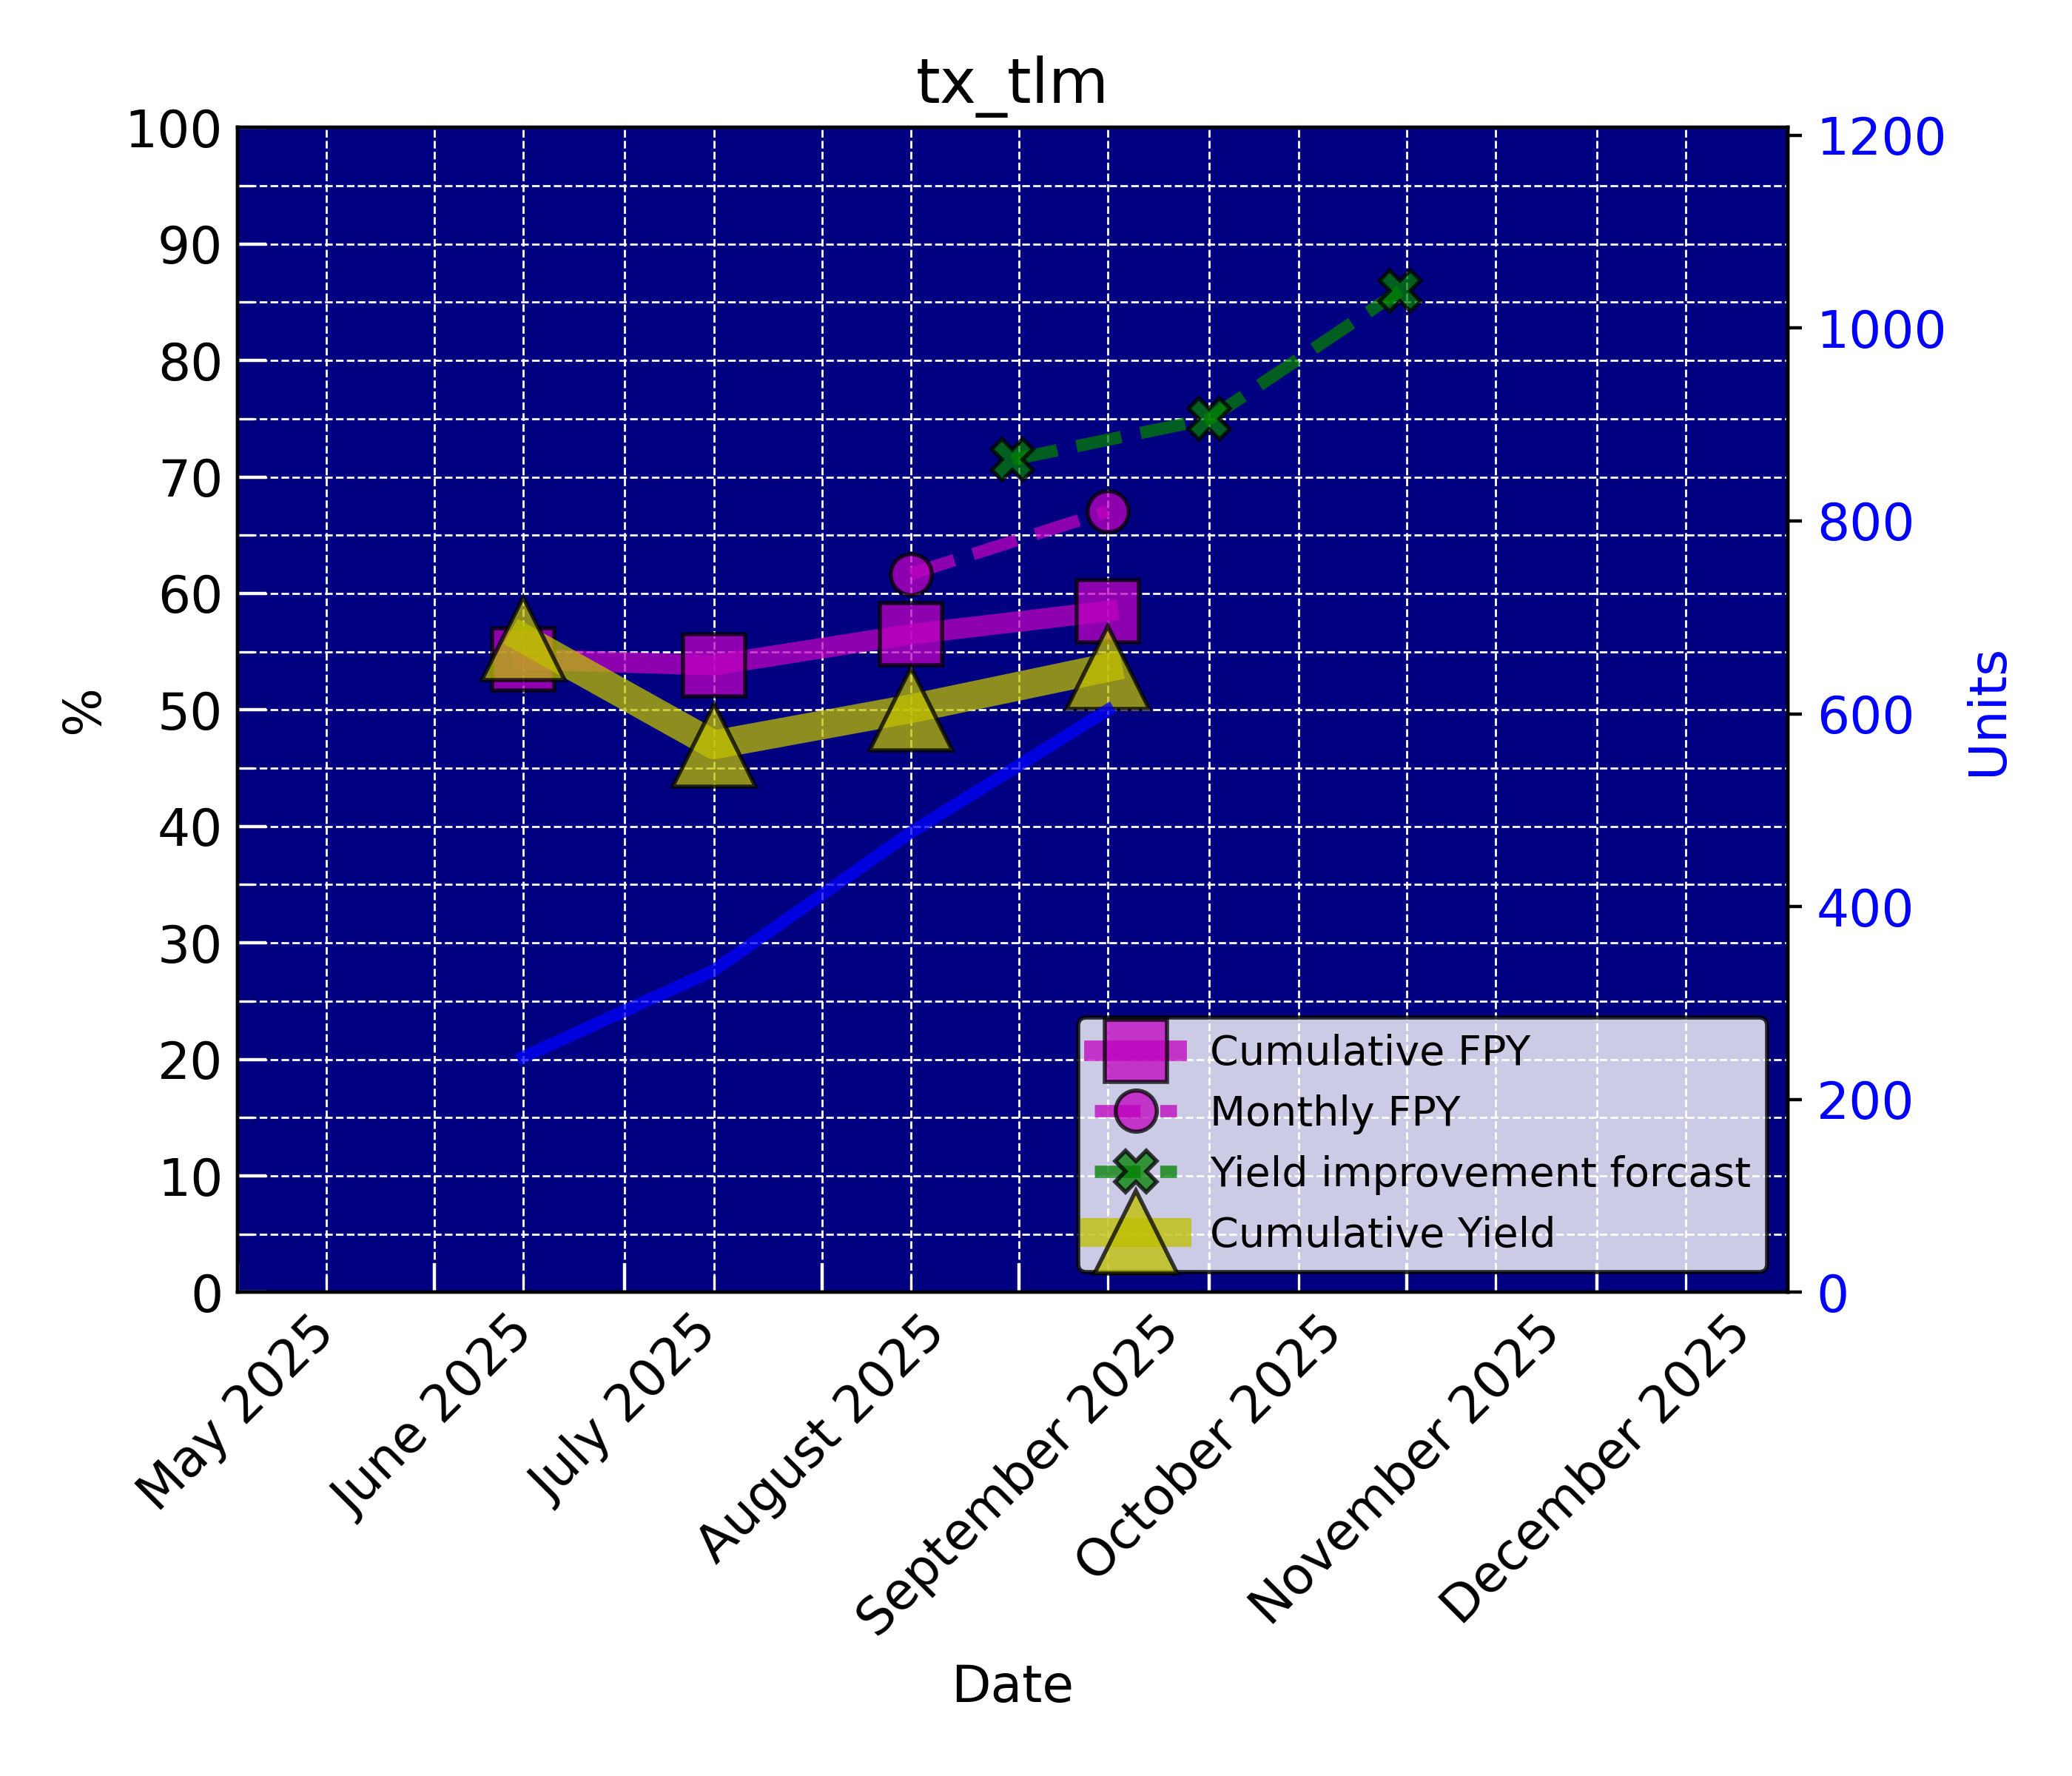
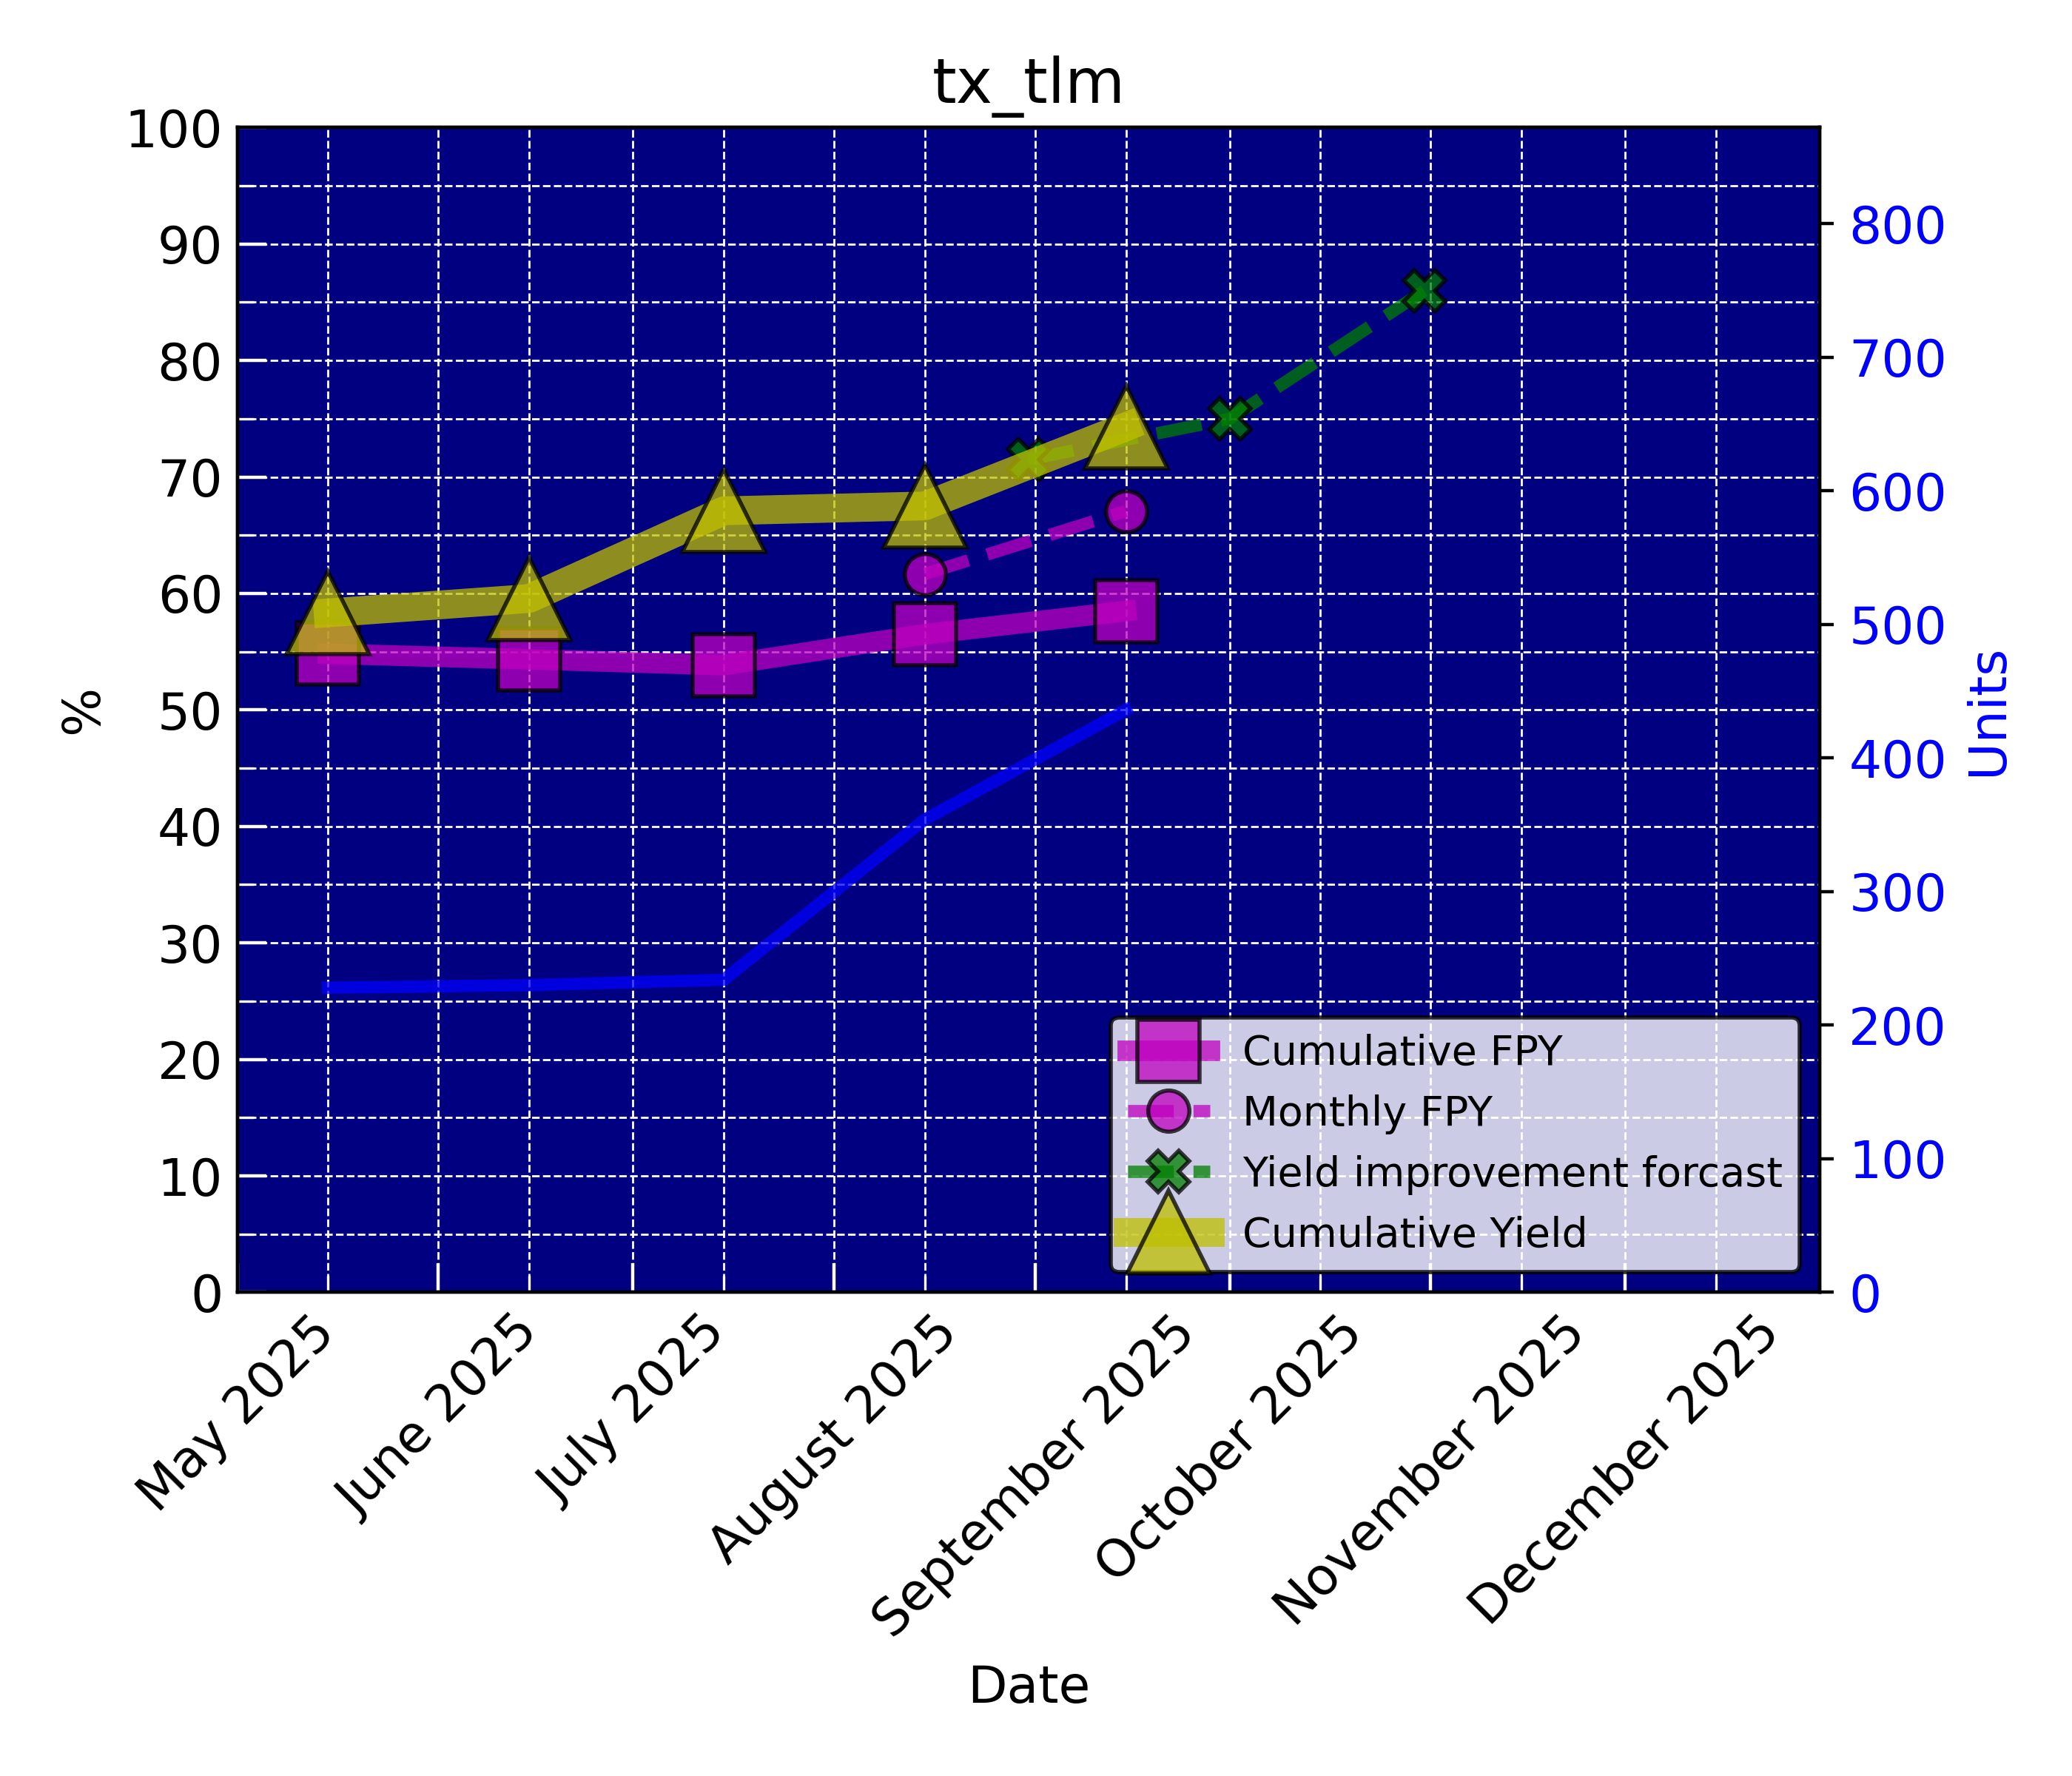
Check-in before holidays

diff --git a/20251103_BiT_analysis/statistical_lims.py b/20251103_BiT_analysis/statistical_lims.py
@@ -1,0 +1,78 @@
+# -*- coding: utf-8 -*-
+"""
+Created on Mon Oct 27 10:58:41 2025
+
+@author: jmitchell
+"""
+
+import pandas as pd
+import os
+import glob
+import numpy as np
+import matplotlib.pyplot as plt
+
+file_path = (r'C:\scratch\20251103')
+file_strings = ['logProcStatusFAN', '.csv', 'NPI Pre Check TLMs Fitted', 'PASS']
+
+def find_meas_files(path, file_strings):
+    files = []
+    for root, directories, file in os.walk(path):
+        for file in file:
+            if (file.endswith(".csv")) == True:
+                files.append(os.path.join(root, file))
+    meas_files = []
+    for i in range(len(files)):
+        append = True
+        for file_string in file_strings:
+            if file_string not in files[i]:
+                append = False
+            if append == True:
+                meas_files.append(files[i])
+
+    return meas_files
+
+meas_files = find_meas_files(file_path, file_strings)
+fnames = [item.split('\\')[-1] for item in meas_files]
+array_list = []
+
+for meas_file in meas_files:
+    np_array = np.genfromtxt(meas_file, delimiter=',', skip_header=11, dtype=None, encoding=None)
+    array_list.append(np_array)
+final_3d_array = np.stack(array_list, axis=0)
+
+column_data = final_3d_array[:, 1:, 2] 
+
+def safe_to_float(value):
+    """Attempts to convert a value to float, returns NaN if it fails."""
+    try:
+        return float(value)
+    except (ValueError, TypeError):
+        return np.nan
+
+vectorized_safe_to_float = np.vectorize(safe_to_float)
+
+numeric_column_data = vectorized_safe_to_float(column_data).astype(float)
+
+average_value = np.nanmean(numeric_column_data, axis=0)
+std_value = np.std(numeric_column_data, axis=0)
+
+# plot
+measurement_params = final_3d_array[0, 1:, 1]
+x_positions = np.arange(len(measurement_params))
+fig, ax = plt.subplots(figsize=(8, 6))
+
+ax.bar(x_positions, average_value, yerr=std_value, capsize=5, color='skyblue', ecolor='black', width=0.6)
+
+# Set the y-axis to a logarithmic scale
+# ax.set_yscale('log')
+
+ax.set_ylabel('Values')
+ax.set_xticks(x_positions) # Set the tick locations
+ax.set_xticklabels(measurement_params) # Set the measurement names as labels
+ax.yaxis.grid(True, which='both', linestyle='--', linewidth=0.5) # Add grid lines
+
+plt.xticks(rotation=45, ha='right')
+# Display the plot
+plt.tight_layout() # Adjust layout to prevent labels from being cut off
+plt.show()
+

diff --git a/20251103_BiT_analysis/all_lims.py b/20251103_BiT_analysis/all_lims.py
@@ -1,0 +1,23 @@
+# -*- coding: utf-8 -*-
+"""
+Created on Mon Oct 27 10:58:41 2025
+
+@author: jmitchell
+"""
+
+import pandas as pd
+import os
+import glob
+
+os.chdir(r'C:\scratch\20251014\all_lims')
+file_paths = glob.glob('*.csv')
+
+df = pd.DataFrame()
+for file_path in file_paths:
+    df_file_path = pd.read_csv(file_path)
+    df_file_path['limit_file']=file_path[0:-4]
+    df = pd.concat([df, df_file_path])
+
+new_column_order = ['limit_file', 'metric', 'lowerRange', 'upperRange']
+df = df[new_column_order]
+df.to_excel('BiT_Lims.xlsx')